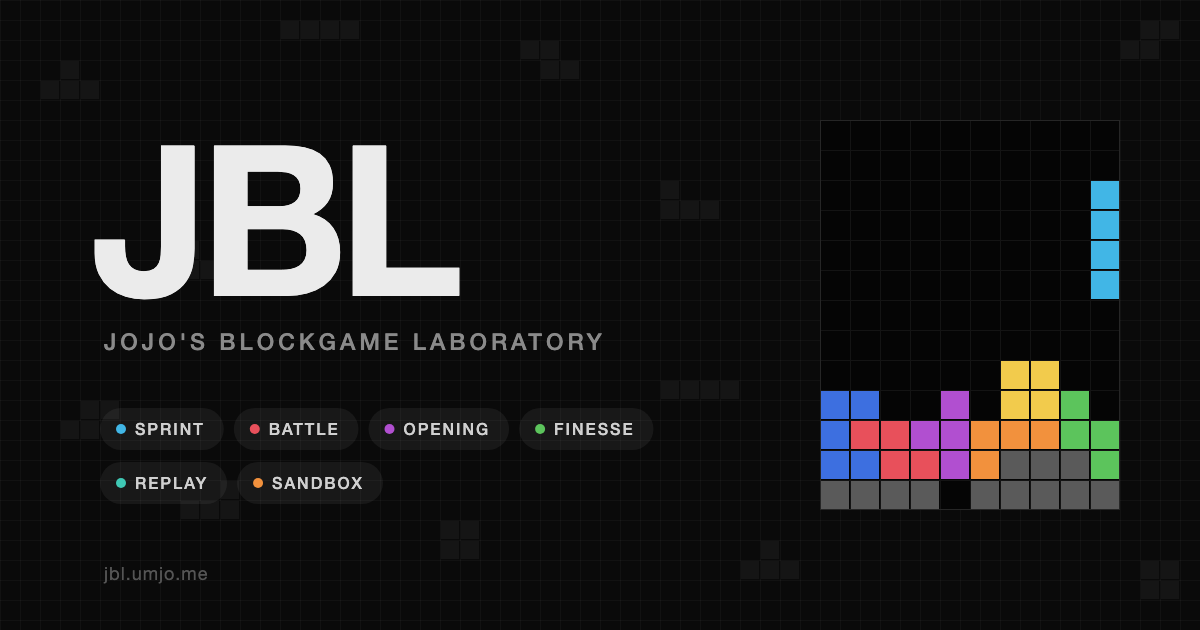
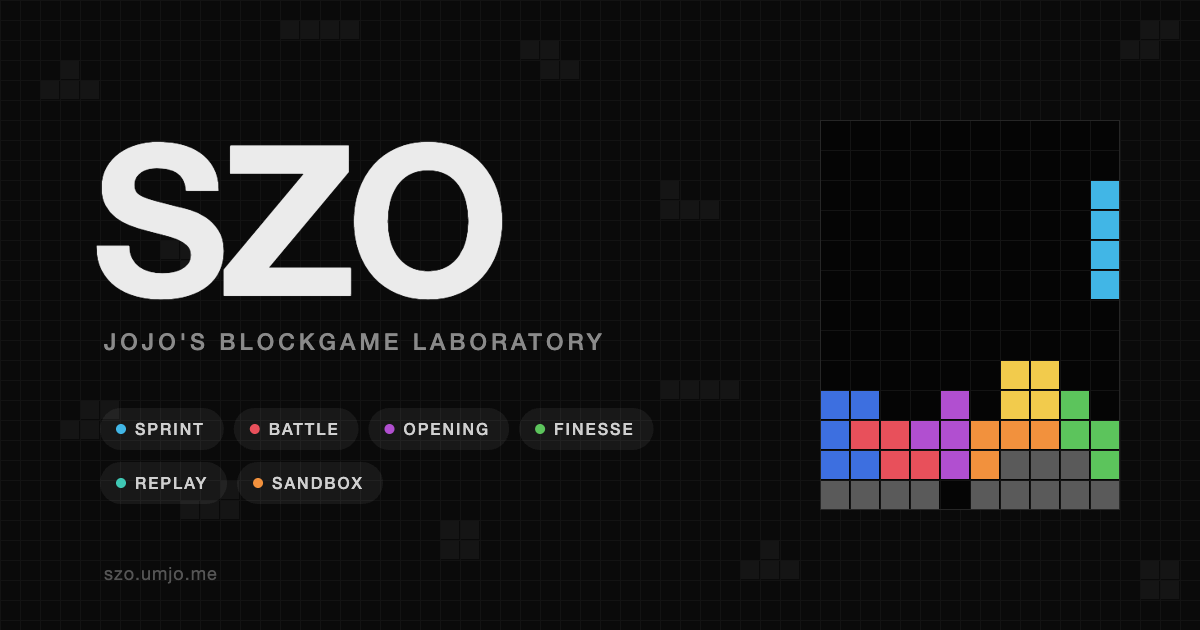
The game is SZO; no game opens on S, Z or O
- Renamed from JBL: wordmark, page title and previews, README, rank card
  mark and file name, og image, and a favicon of the three pieces. The
  address in the previews is szo.umjo.me. Storage keys keep their old
  names so nobody's settings are lost.
- The start rule now refuses S, Z and O as the first piece (it used to let
  O through unless S or Z followed), as NullpoMino's standard rule and
  tetr.js do. A packed run keeps the seed its pieces came from, so codes
  made before still open.

Changed region(s): [[0.0617, 0.2111, 0.4317, 0.4825], [0.0925, 0.9048, 0.185, 0.9349], [0.0617, 0.4222, 0.0925, 0.4524]]

diff --git a/index.html b/index.html
@@ -5,26 +5,26 @@
     <link rel="icon" type="image/svg+xml" href="/favicon.svg" />
     <meta name="viewport" content="width=device-width, initial-scale=1.0" />
     <meta name="theme-color" content="#0a0a0a" />
-    <title>JBL : Jojo's Blockgame Laboratory</title>
-    <meta name="description" content="JBL — Jojo's Blockgame Laboratory. A block-stacking lab: Sprint, Battle against Cold Clear and MisaMino, opener and finesse practice, replays with analysis, and a sandbox." />
+    <title>SZO : Jojo's Blockgame Laboratory</title>
+    <meta name="description" content="SZO — Jojo's Blockgame Laboratory. A block-stacking lab: Sprint, Battle against Cold Clear and MisaMino, opener and finesse practice, replays with analysis, and a sandbox." />
     <meta name="author" content="Jojo" />
 
     <meta property="og:type" content="website" />
-    <meta property="og:url" content="https://jbl.umjo.me/" />
-    <meta property="og:title" content="JBL : Jojo's Blockgame Laboratory" />
+    <meta property="og:url" content="https://szo.umjo.me/" />
+    <meta property="og:title" content="SZO : Jojo's Blockgame Laboratory" />
     <meta property="og:description" content="A block-stacking lab: Sprint, Battle against Cold Clear and MisaMino, opener and finesse practice, replays with analysis, and a sandbox." />
-    <meta property="og:site_name" content="JBL" />
-    <meta property="og:image" content="https://jbl.umjo.me/og.png" />
+    <meta property="og:site_name" content="SZO" />
+    <meta property="og:image" content="https://szo.umjo.me/og.png" />
     <meta property="og:image:width" content="1200" />
     <meta property="og:image:height" content="630" />
     <meta property="og:image:type" content="image/png" />
-    <meta property="og:image:alt" content="JBL — Jojo's Blockgame Laboratory: the wordmark, its modes, and a stack of blocks" />
+    <meta property="og:image:alt" content="SZO — Jojo's Blockgame Laboratory: the wordmark, its modes, and a stack of blocks" />
 
     <meta name="twitter:card" content="summary_large_image" />
-    <meta name="twitter:url" content="https://jbl.umjo.me/" />
-    <meta name="twitter:title" content="JBL : Jojo's Blockgame Laboratory" />
+    <meta name="twitter:url" content="https://szo.umjo.me/" />
+    <meta name="twitter:title" content="SZO : Jojo's Blockgame Laboratory" />
     <meta name="twitter:description" content="A block-stacking lab: Sprint, Battle against Cold Clear and MisaMino, opener and finesse practice, replays with analysis, and a sandbox." />
-    <meta name="twitter:image" content="https://jbl.umjo.me/og.png" />
+    <meta name="twitter:image" content="https://szo.umjo.me/og.png" />
   </head>
   <body>
     <div id="root"></div>

diff --git a/scripts/og.html b/scripts/og.html
@@ -20,11 +20,11 @@ stack.forEach((line,r)=>[...line].forEach((ch,col)=>{ if(ch==='.') return; x.fil
 const T=[[1,0],[0,1],[1,1],[2,1]];
 for(let b=0;b<4;b++){ x.fillStyle=C.I; x.fillRect(bx+9*cell+1, by+(2+b)*cell+1, cell-2, cell-2); }
 x.fillStyle='#ebebeb'; x.font='700 210px "Helvetica Neue", Helvetica, Arial, sans-serif';
-x.letterSpacing='-9px'; x.fillText('JBL', 92, 296); x.letterSpacing='0px';
+x.letterSpacing='-9px'; x.fillText('SZO', 92, 296); x.letterSpacing='0px';
 x.fillStyle='#8a8a8a'; x.font='500 23px "Helvetica Neue", Helvetica, Arial, sans-serif'; x.letterSpacing='4px'; x.fillText("JOJO'S BLOCKGAME LABORATORY", 104, 350);
 const modes=[['SPRINT','#41b6e6'],['BATTLE','#e8505b'],['OPENING','#b14fd0'],['FINESSE','#5cc45c'],['REPLAY','#3fc8b4'],['SANDBOX','#f2913d']];
 x.font='500 16px "Helvetica Neue", Helvetica, Arial, sans-serif'; x.letterSpacing='2px';
 let px=100, py=408; const rr=(X,Y,w,h,r)=>{x.beginPath(); x.moveTo(X+r,Y); x.arcTo(X+w,Y,X+w,Y+h,r); x.arcTo(X+w,Y+h,X,Y+h,r); x.arcTo(X,Y+h,X,Y,r); x.arcTo(X,Y,X+w,Y,r); x.closePath();};
 modes.forEach(([n,col])=>{ const tw=x.measureText(n).width; const w=tw+54, h=42; if(px+w>740){px=100; py+=54;} rr(px,py,w,h,21); x.fillStyle='rgba(255,255,255,0.06)'; x.fill(); x.fillStyle=col; x.beginPath(); x.arc(px+21,py+21,5,0,Math.PI*2); x.fill(); x.fillStyle='#d0d0d0'; x.fillText(n, px+35, py+27); px+=w+10; });
-x.letterSpacing='1px'; x.fillStyle='#555'; x.font='400 18px "Helvetica Neue", Helvetica, Arial, sans-serif'; x.fillText('jbl.umjo.me', 104, 580);
+x.letterSpacing='1px'; x.fillStyle='#555'; x.font='400 18px "Helvetica Neue", Helvetica, Arial, sans-serif'; x.fillText('szo.umjo.me', 104, 580);
 </script></body></html>

diff --git a/src/modes/lab/rankCard.js b/src/modes/lab/rankCard.js
@@ -82,7 +82,7 @@ export function drawRankCard({ letter, step, title, scores, name, mode, vs, date
   if (baked) bakeFoil(ctx, letter, m);
 
   ctx.textBaseline = "middle";
-  text("JBL", m + 56, m + 78, 40, 800, "#ffffff", "left");
+  text("SZO", m + 56, m + 78, 40, 800, "#ffffff", "left");
   if (date) text(date, W - m - 56, m + 78, 30, 500, "rgba(255, 255, 255, 0.6)", "right");
 
   // The seal: a ring (turning colours for SS and SSS), a dark face, the letter.
@@ -169,7 +169,7 @@ export function drawRankCard({ letter, step, title, scores, name, mode, vs, date
 }
 
 // The card's file name, by rank.
-export const rankCardName = (what) => `jbl-${what.letter}${what.step === "+" ? "-plus" : what.step ? "-minus" : ""}.png`;
+export const rankCardName = (what) => `szo-${what.letter}${what.step === "+" ? "-plus" : what.step ? "-minus" : ""}.png`;
 
 // On the page the foil is live (it follows the pointer); a saved picture gets
 // a still one, caught at one angle: slanted streaks of light, a wash of
@@ -209,7 +209,7 @@ export function saveRankCard(what) {
   drawRankCard(what, { baked: true }).toBlob((blob) => {
     const a = document.createElement("a");
     a.href = URL.createObjectURL(blob);
-    a.download = `jbl-${what.letter}${what.step === "+" ? "-plus" : what.step ? "-minus" : ""}.png`;
+    a.download = `szo-${what.letter}${what.step === "+" ? "-plus" : what.step ? "-minus" : ""}.png`;
     a.click();
     setTimeout(() => URL.revokeObjectURL(a.href), 1000);
   }, "image/png");

diff --git a/src/engine/deal.js b/src/engine/deal.js
@@ -31,15 +31,11 @@ export function mulberry32(seed) {
   };
 }
 
-// A start to deal again: the first piece is S or Z, or it is O and the second
-// is S or Z. (Piece ids: I=1, T=2, L=3, J=4, S=5, Z=6, O=7.)
-// Not opening on a piece that cannot lie flat is an old convention: NullpoMino's
-// standard rule (BagNoSZORandomizer) and tetr.js both reshuffle the first bag
-// until it does not start with S, Z or O. Here O may come first, as long as
-// S or Z does not follow it.
+// A start to deal again: the first piece is S, Z or O, the three that cannot
+// be set down without leaving a gap or an overhang on an empty board. (Piece
+// ids: I=1, T=2, L=3, J=4, S=5, Z=6, O=7.) It is an old convention, and the
+// game's name: NullpoMino's standard rule (BagNoSZORandomizer) and tetr.js
+// both reshuffle the first bag until it does not start with one of them.
 export function awkwardStart(queue) {
-  if (queue.length < 2) return false;
-  const [a, b] = queue;
-  const isSZ = (id) => id === 5 || id === 6;
-  return isSZ(a) || (a === 7 && isSZ(b));
+  return queue[0] === 5 || queue[0] === 6 || queue[0] === 7;
 }

diff --git a/src/styles/sandbox.css b/src/styles/sandbox.css
@@ -115,7 +115,7 @@
 .am-menu button.danger { color: var(--bad); }
 .am-menu button:disabled { color: var(--muted); cursor: default; }
 @media (prefers-reduced-motion: reduce) { .am-menu, .am-menu li { transition: none; } }
-/* One text line, on the same baseline as the JBL wordmark: nothing here may
+/* One text line, on the same baseline as the SZO wordmark: nothing here may
    be taller than the text (the underline and the save link take no height). */
 .mode-label.sb-title { align-items: baseline; pointer-events: auto; line-height: inherit; }
 .piece-icon { display: inline-block; vertical-align: middle; flex: none; }

diff --git a/src/App.jsx b/src/App.jsx
@@ -237,7 +237,7 @@ export default function App() {
       <Toaster />
       {view !== "menu" && (
         <button className="wordmark" onClick={goMenu} title={t("Home")}>
-          JBL
+          SZO
         </button>
       )}
 
@@ -264,7 +264,7 @@ export default function App() {
       <main className="main">
         {view === "menu" && (
           <div className="home">
-            <h1 className="logo">JBL</h1>
+            <h1 className="logo">SZO</h1>
             <div className="sub">Jojo&apos;s Blockgame Laboratory</div>
             <div className="menu">
               {menuModes().map((m, i) => (

diff --git a/src/bots/engines.js b/src/bots/engines.js
@@ -21,7 +21,7 @@ async function misaMove(s, { level, style = 2 }) {
   const field = s.rows.join("").replace(/1/g, "2");
   const out = misa.move(field, s.cur.charCodeAt(0), (s.hold || " ").charCodeAt(0), s.queue, s.combo, s.b2b ? 1 : 0, s.incoming);
   if (!out) return "";
-  // MisaMino spawns 3-wide pieces one column further right than JBL, so line
+  // MisaMino spawns 3-wide pieces one column further right than SZO, so line
   // the piece up with it first (after the hold, if it holds).
   const holds = out[0] === "v";
   const piece = holds ? s.hold || s.queue[0] : s.cur;

diff --git a/src/engine/engine.js b/src/engine/engine.js
@@ -40,8 +40,8 @@ export class BlockEngine {
     this.pendingSeq = this.sequence ? this.sequence.slice() : [];
     this.fillQueue();
 
-    // No game opens on an awkward piece (see isBannedStart), as in Jstris: deal
-    // again. This holds in every mode that deals its own pieces, not only Sprint.
+    // No game opens on S, Z or O (see awkwardStart): deal again. This holds in
+    // every mode that deals its own pieces.
     let attempts = 0;
     while (!this.sequence && this.isBannedStart() && attempts < 1000) {
       this.rng = mulberry32(seed + ++attempts * 7919);

diff --git a/src/modes/Battle.jsx b/src/modes/Battle.jsx
@@ -27,7 +27,7 @@ const LEVELS = [
   { id: "hard", label: "Hard" },
   { id: "max", label: "Max" },
 ];
-// Which engine plays the CPU seat. Stacker is JBL's own simple heuristic.
+// Which engine plays the CPU seat. Stacker is SZO's own simple heuristic.
 const BOTS = [
   { id: "cc", label: "Cold Clear" },
   { id: "misa", label: "MisaMino" },

diff --git a/src/styles.css b/src/styles.css
@@ -1,4 +1,4 @@
-/* JBL styles, in the order they cascade. Each file is one stretch of what
+/* SZO styles, in the order they cascade. Each file is one stretch of what
    used to be a single sheet; keep the order when adding one. */
 @import "./styles/base.css";
 @import "./styles/game.css";

diff --git a/src/styles/base.css b/src/styles/base.css
@@ -1,4 +1,4 @@
-/* ─── JBL styles ───
+/* ─── SZO styles ───
    Centered game layout with a light touch of the umjo design system:
    Helvetica Neue, neutral greys, pill controls, small labels over large
    values. Each mode keeps its own accent colour. */

diff --git a/README.md b/README.md
@@ -1,14 +1,14 @@
-# JBL — Jojo's Blockgame Laboratory
+# SZO — Jojo's Blockgame Laboratory
 
 A modern block stacker sprint built with React + Vite.
 
-Live: **[jbl.umjo.me](https://jbl.umjo.me)**
+Live: **[szo.umjo.me](https://szo.umjo.me)**
 
 ## Credits & Inspiration
 
 The attack and combo tables, the lock and garbage delays and the randomizer follow the rules **[Jstris](https://jstris.jezevec10.com/)** by [Jezevec10](https://github.com/Jezevec10) documents in its public [guide](https://github.com/jezevec10/jstris-guide). Huge thanks to Jstris and its community — this project would not exist without them.
 
-JBL is an independent, non-affiliated project. It is not endorsed by or connected to Jstris or The Tetris Company. Core mechanics follow the publicly documented [SRS Guideline](https://tetris.wiki/Super_Rotation_System).
+SZO is an independent, non-affiliated project. It is not endorsed by or connected to Jstris or The Tetris Company. Core mechanics follow the publicly documented [SRS Guideline](https://tetris.wiki/Super_Rotation_System).
 
 ## Development
 
